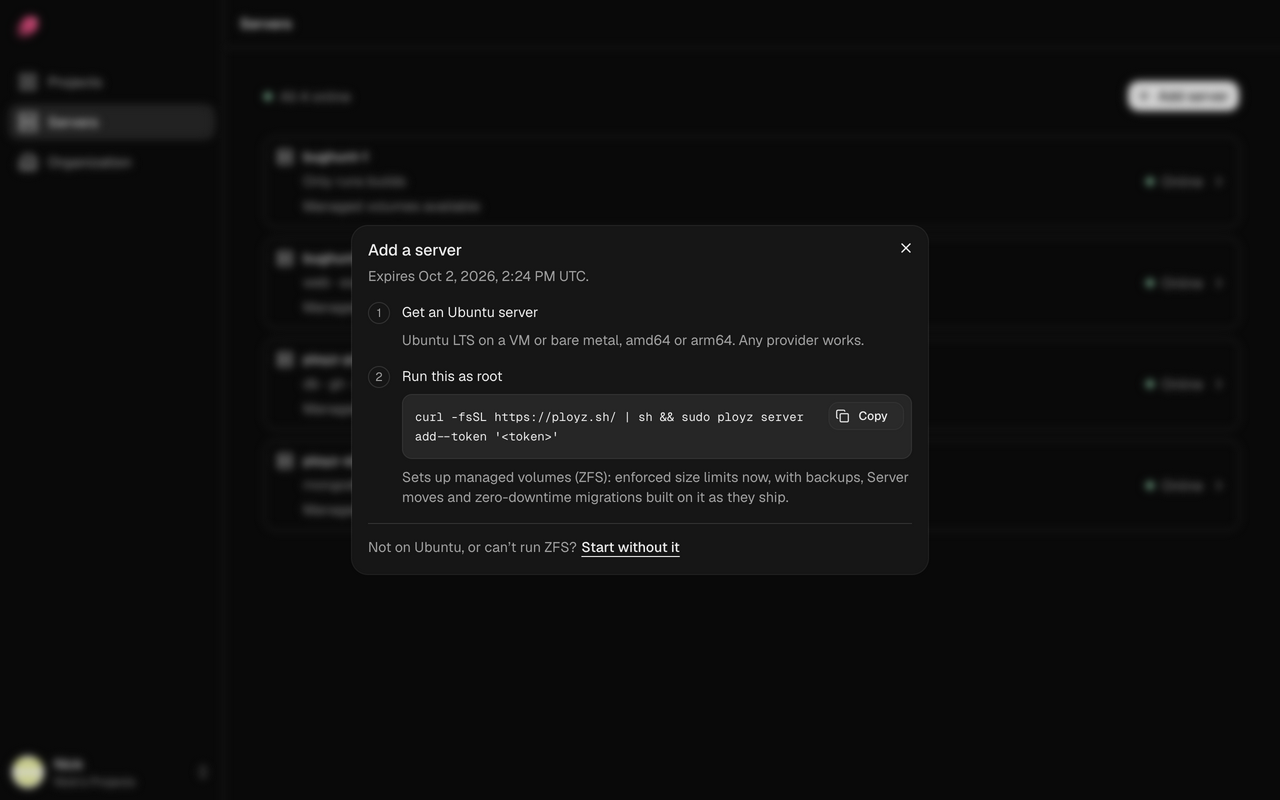
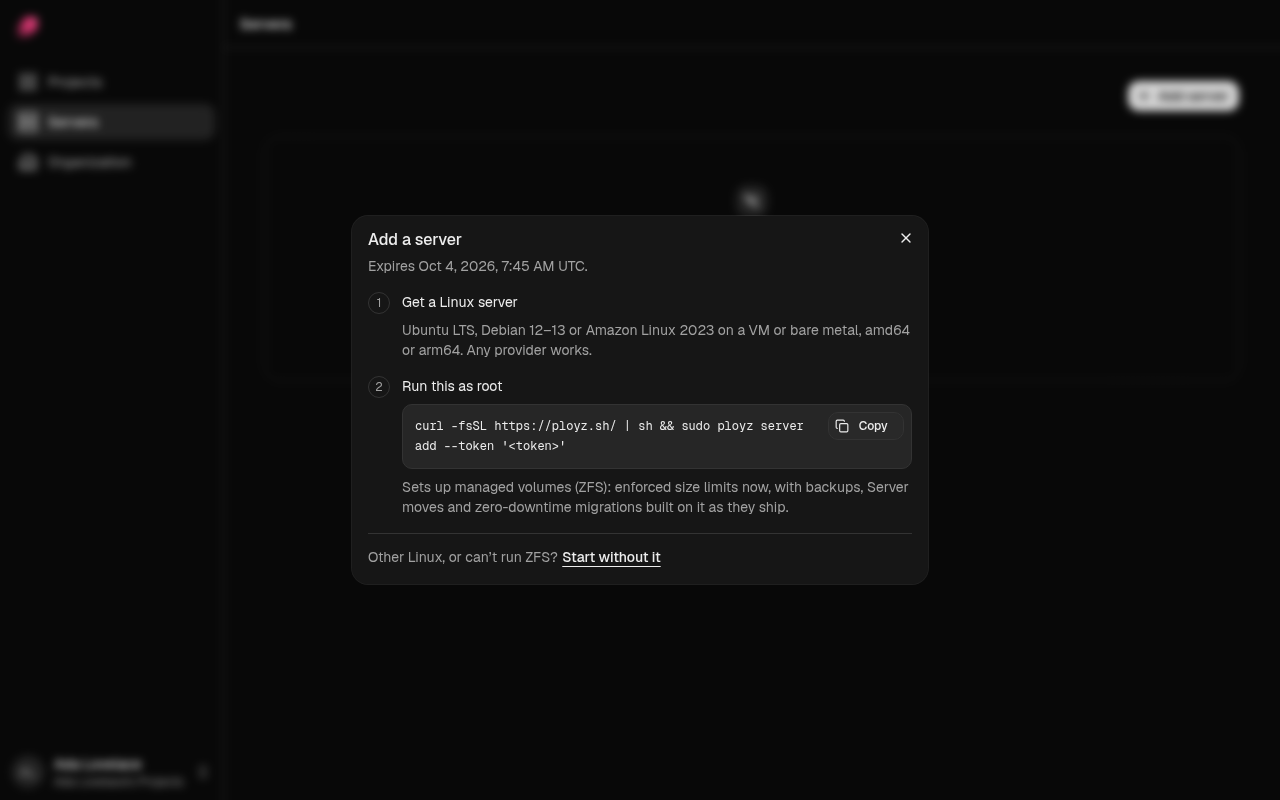
Warn that the ZFS build can take 20 minutes; allow ZFS in Add Server copy; retake dialog screenshot

diff --git a/core/crates/ployzd/src/installer/storage.rs b/core/crates/ployzd/src/installer/storage.rs
@@ -231,7 +231,10 @@ fn build_zfs_module(
     kernel: &str,
     build: impl FnOnce() -> Result<(), BuildFailure>,
 ) -> Result<(), Error> {
-    println!("Building ZFS for kernel {kernel}. This takes a few minutes.");
+    eprintln!(
+        "WARNING: {} doesn't include ZFS, so Ployz is building it for kernel {kernel}. This can take up to 20 minutes on small Servers. Ubuntu includes ZFS and sets up in seconds.",
+        os.display()
+    );
     build()
         .and_then(|()| {
             if zfs_installed(kernel) {

diff --git a/dashboard/DESIGN.md b/dashboard/DESIGN.md
@@ -356,6 +356,7 @@ Bar text stays minimal: fewer words on mobile, and explanations belong in a pane
 - Storage settings are editable until deployment is requested, then shown as fixed, including after failed or cancelled attempts.
 - New Volumes refuse a second writer unless shared writes is on: one Service with one replica. Allow shared writes, under the volume's Advanced, applies at once and is never staged; turning it off with several writers is refused, and the reason shows on the switch.
 - Product copy does not expose ZFS or imply backups, replication, or resizing.
+  - Exception: the Add Server dialog may name ZFS where it explains a requirement, because "managed volumes" alone doesn't tell someone why they'd opt out.
 
 ## Voice
 
